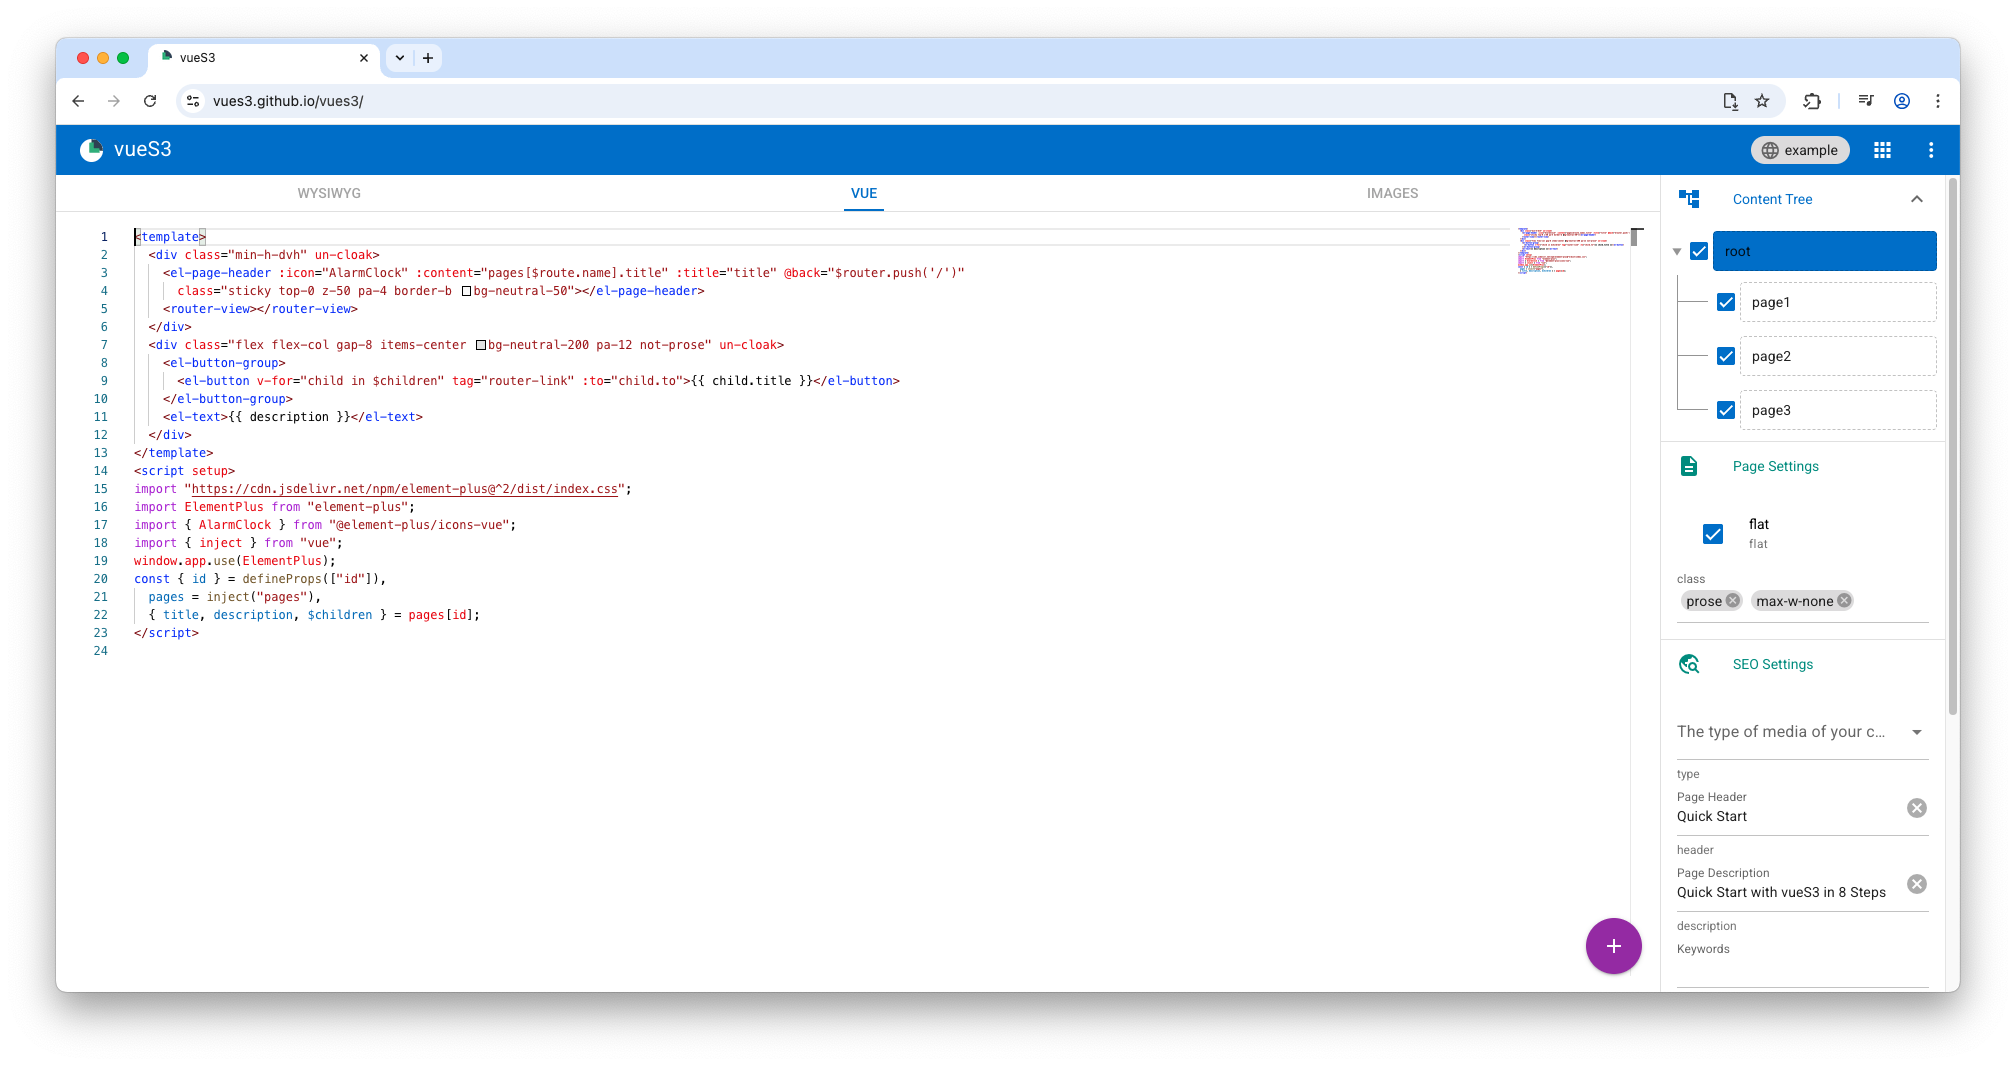
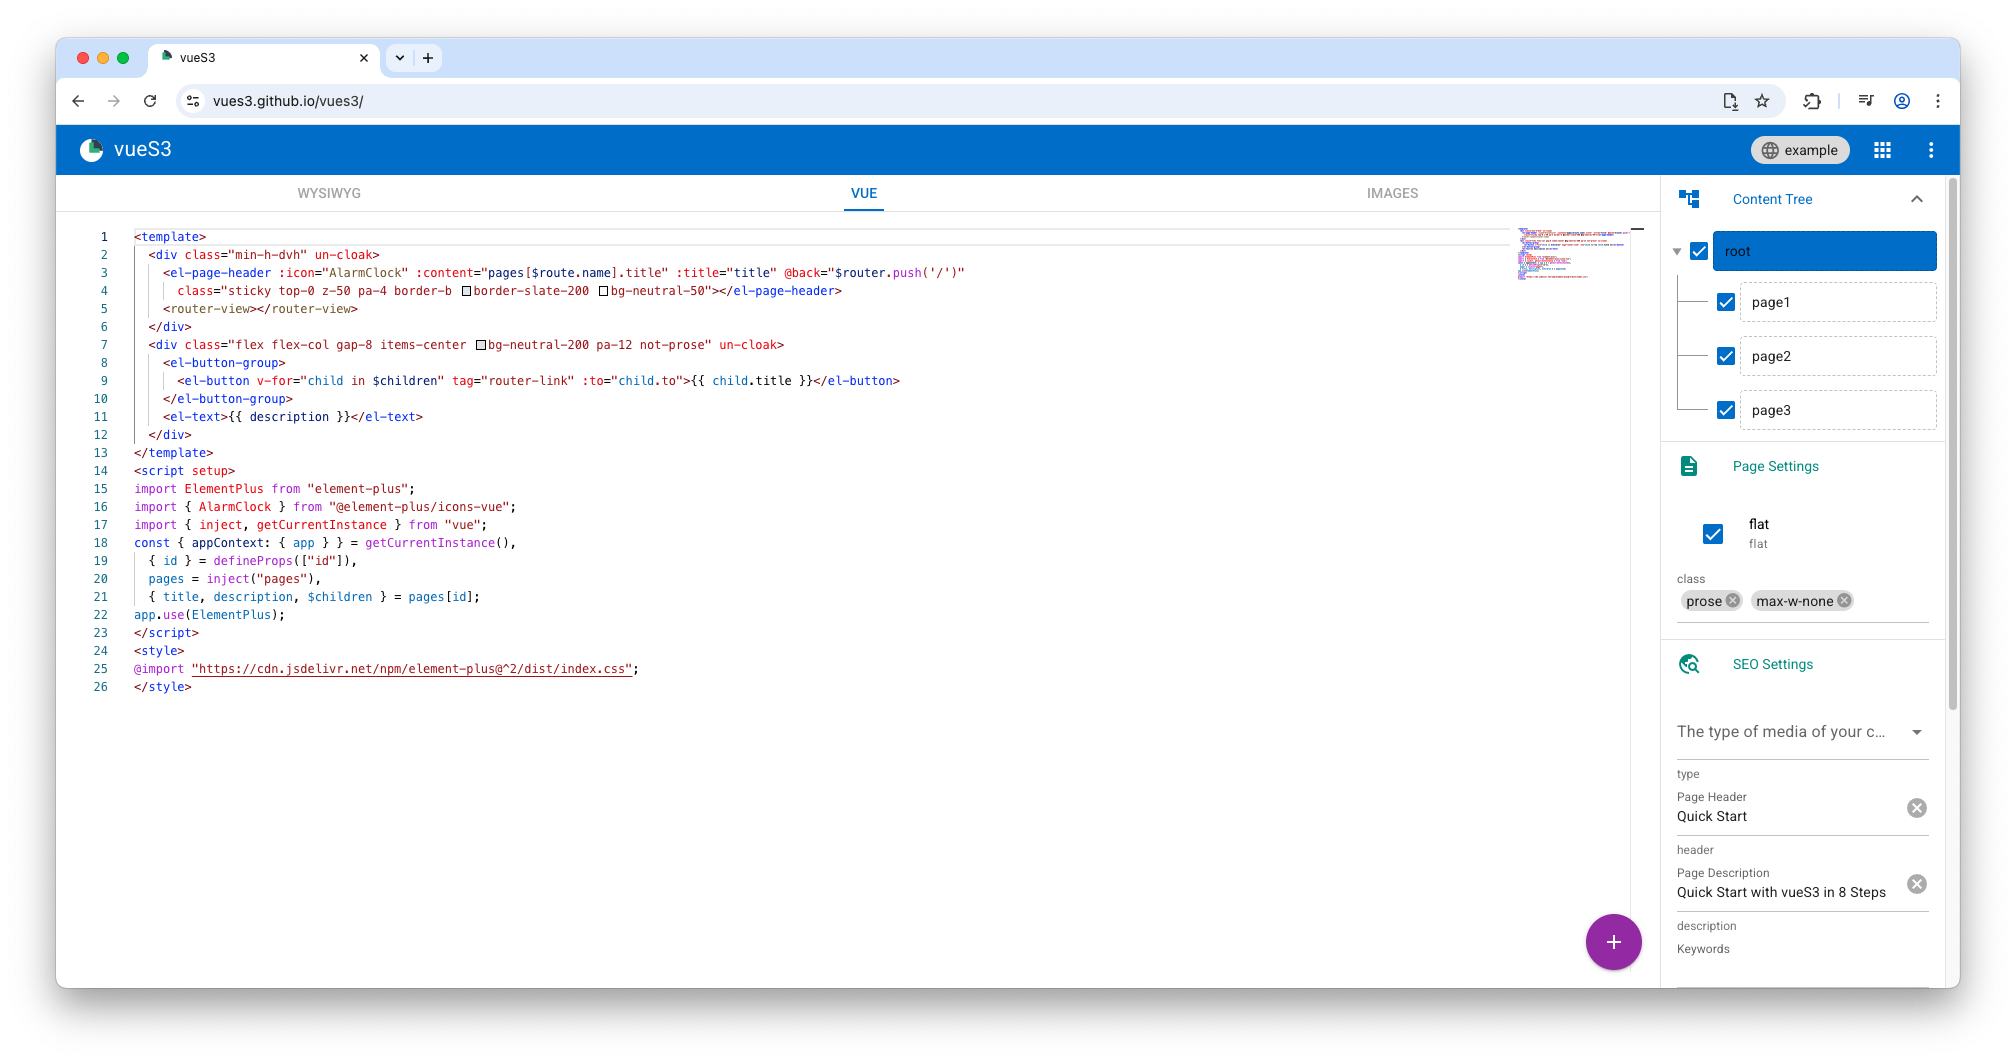
2025-05-05

diff --git a/pages/8f9df062-ec88-4149-87f7-65c55b3001a9.vue b/pages/8f9df062-ec88-4149-87f7-65c55b3001a9.vue
@@ -44,9 +44,6 @@
                 <dd class="text-slate-500">{{ t(`ex2dl.${key}`) }}</dd>
             </template>
         </dl>
-        <p>{{ t("p7") }}:</p>
-        <highlightjs code='import from "url"' language="js" class="not-prose my-6"></highlightjs>
-        <p>{{ t("p8") }}</p>
         <div class="not-prose flex mt-48">
             <el-button-group class="mx-auto">
                 <el-button type="primary" :icon="ArrowLeft" :to="the.$prev.to" v-if="the.$prev" tag="router-link">{{
@@ -96,8 +93,6 @@ const messages = {
             "layer-name": "Is the name of a cascade layer into which the contents of the linked resource are imported.",
             "supports-condition": "Indicates the feature(s) that the browser must support in order for the stylesheet to be imported. If the browser does not conform to the conditions specified in the supports-condition, it may not fetch the linked stylesheet, and even if downloaded through some other path, will not load it.",
         },
-        p7: "Styles can be imported from the `script` section using a simple `import` directive.",
-        p8: "Styles can only be imported via a URL to a .css file; it is not possible to use names, and styles cannot be specified in the `importmap`.",
     },
     ru: {
         h_1: "Импортирование модулей",
@@ -125,8 +120,6 @@ const messages = {
             "layer-name": "Имя каскадного слоя, в который импортируется содержимое связанного ресурса.",
             "supports-condition": "Указывает функцию(и), которую(ые) должен(ы) поддерживать браузер, чтобы таблица стилей была импортирована. Если браузер не соответствует условиям, указанным в supports-condition, он может не получить связанную таблицу стилей, и даже если она будет загружена по другому пути, не загрузит ее.",
         },
-        p7: "Из раздела script стили импортируются с помощью простой директивы import",
-        p8: "Стили импортируются только по URL к .css файлу, невозможно использовать названия и нельзя прописывать стили в importmap.",
     }
 },
     { t } = useI18n({ messages });

diff --git a/pages/16354c7c-8d35-419a-a94c-84b9173396b5.vue b/pages/16354c7c-8d35-419a-a94c-84b9173396b5.vue
@@ -26,7 +26,7 @@
               <highlightjs :code="code" v-if="code" class="my-6"></highlightjs>
             </div>
             <div class="col-span-1 lg:col-span-3" v-if="src"><el-image :src="src" :preview-src-list="[src]" v-if="src"
-                class="w-full h-auto" :class="{ border: index === times.length - 1 }" />
+                class="w-full h-auto border-slate-200" :class="{ border: index === times.length - 1 }" />
             </div>
           </div>
         </el-card>
@@ -242,7 +242,7 @@ const {'{'} id {'}'} = defineProps(["id"]),
       code: `<template>
   <div class="min-h-dvh" un-cloak>
     <el-page-header :icon="AlarmClock" :content="pages[$route.name].title" :title="title" @back="$router.push('/')"
-      class="sticky top-0 z-50 pa-4 border-b bg-neutral-50"></el-page-header>
+      class="sticky top-0 z-50 pa-4 border-b border-slate-200 bg-neutral-50"></el-page-header>
     <router-view></router-view>
   </div>
   <div class="flex flex-col gap-8 items-center bg-neutral-200 pa-12 not-prose" un-cloak>
@@ -253,15 +253,18 @@ const {'{'} id {'}'} = defineProps(["id"]),
   </div>
 </template>
 <script setup>
-import "https://cdn.jsdelivr.net/npm/element-plus@^2/dist/index.css";
 import ElementPlus from "element-plus";
 import { AlarmClock } from "@element-plus/icons-vue";
-import { inject } from "vue";
-window.app.use(ElementPlus);
-const { id } = defineProps(["id"]),
+import { inject, getCurrentInstance } from "vue";
+const { appContext: { app } } = getCurrentInstance(),
+  { id } = defineProps(["id"]),
   pages = inject("pages"),
   { title, description, $children } = pages[id];
-<\/script>`,
+app.use(ElementPlus);
+<\/script>
+<style>
+@import "https://cdn.jsdelivr.net/npm/element-plus@^2/dist/index.css";
+</style>`,
       src: "images/qstart/3.png",
       to: [/*t("link42"), t("link43"), t("link44"), t("link45")*/],
     },

diff --git a/pages/edaa6f89-4aca-49ce-9bca-bfa6cdb9f9c8.vue b/pages/edaa6f89-4aca-49ce-9bca-bfa6cdb9f9c8.vue
@@ -67,10 +67,16 @@ const { t } = useI18n({
         key: "vuetify",
         value: "https://cdn.jsdelivr.net/npm/vuetify/dist/vuetify.esm.js"
     }],
-    js = `import "https://cdn.jsdelivr.net/npm/vuetify/dist/vuetify.min.css";
-import { createVuetify, components, directives } from "vuetify";
+    js = `<script setup>
+import { getCurrentInstance } from "vue";
+import { createVuetify } from "vuetify";
+const { appContext: { app } } = getCurrentInstance();
+app.use(createVuetify());
+<\/script>
 
-window.app.use(createVuetify({ components, directives }));`,
+<style>
+@import "https://cdn.jsdelivr.net/npm/vuetify/dist/vuetify.min.css";
+</style>`,
     html = `<v-card class="ma-4 max-w-96">
     <v-img class="align-end text-white h-52" src="https://cdn.vuetifyjs.com/images/cards/docks.jpg" cover>
         <v-card-title>Top 10 Australian beaches</v-card-title>

diff --git a/pages/6db2558f-c5aa-42ae-b595-a12890c5d340.vue b/pages/6db2558f-c5aa-42ae-b595-a12890c5d340.vue
@@ -59,10 +59,16 @@ const { t } = useI18n({
         key: "element-plus",
         value: "https://cdn.jsdelivr.net/npm/element-plus/dist/index.full.min.mjs"
     }],
-    js = `import "https://cdn.jsdelivr.net/npm/element-plus/dist/index.css";
+    js = `<script setup>
+import { getCurrentInstance } from "vue";
 import ElementPlus from "element-plus";
+const { appContext: { app } } = getCurrentInstance();
+app.use(ElementPlus);
+<\/script>
 
-window.app.use(ElementPlus.default);`,
+<style>
+@import "https://cdn.jsdelivr.net/npm/element-plus/dist/index.css";
+</style>`,
     html = `<el-card class="ma-4 max-w-96">
     <template #header>Yummy hamburger</template>
     <el-image

diff --git a/pages/e18c7886-6bc0-48c3-81af-643c7c411279.vue b/pages/e18c7886-6bc0-48c3-81af-643c7c411279.vue
@@ -72,10 +72,16 @@ const { t } = useI18n({
         key: "quasar",
         value: "https://cdn.jsdelivr.net/npm/quasar/dist/quasar.client.js"
     }],
-    js = `import "https://cdn.jsdelivr.net/npm/quasar/dist/quasar.prod.css";
+    js = `<script setup>
+import { getCurrentInstance } from "vue";
 import { Quasar } from "quasar";
+const { appContext: { app } } = getCurrentInstance();
+app.use(Quasar);
+<\/script>
 
-window.app.use(Quasar);`,
+<style>
+@import "https://cdn.jsdelivr.net/npm/quasar/dist/quasar.prod.css";
+</style>`,
     html = `<q-card class="ma-4 max-w-96" flat bordered>
     <q-img src="https://cdn.quasar.dev/img/parallax2.jpg" />
     <q-card-section>
